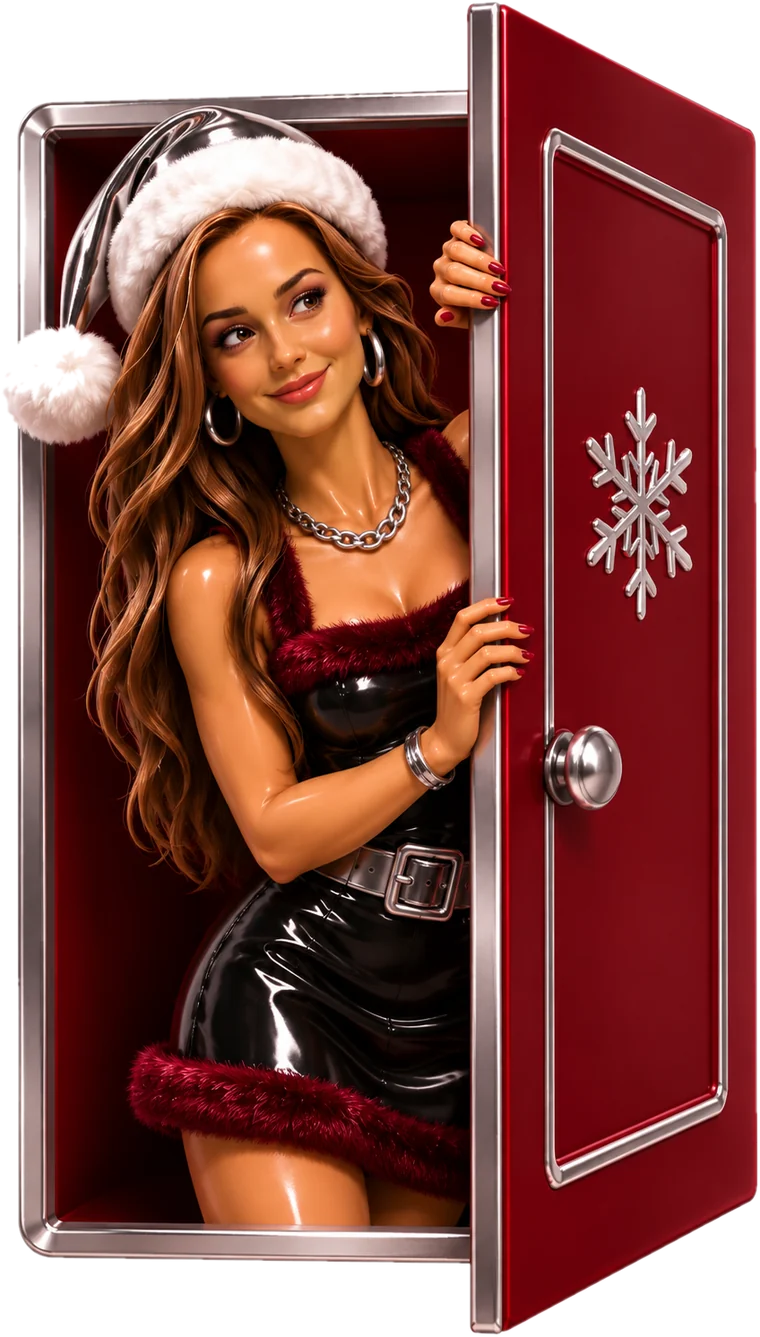
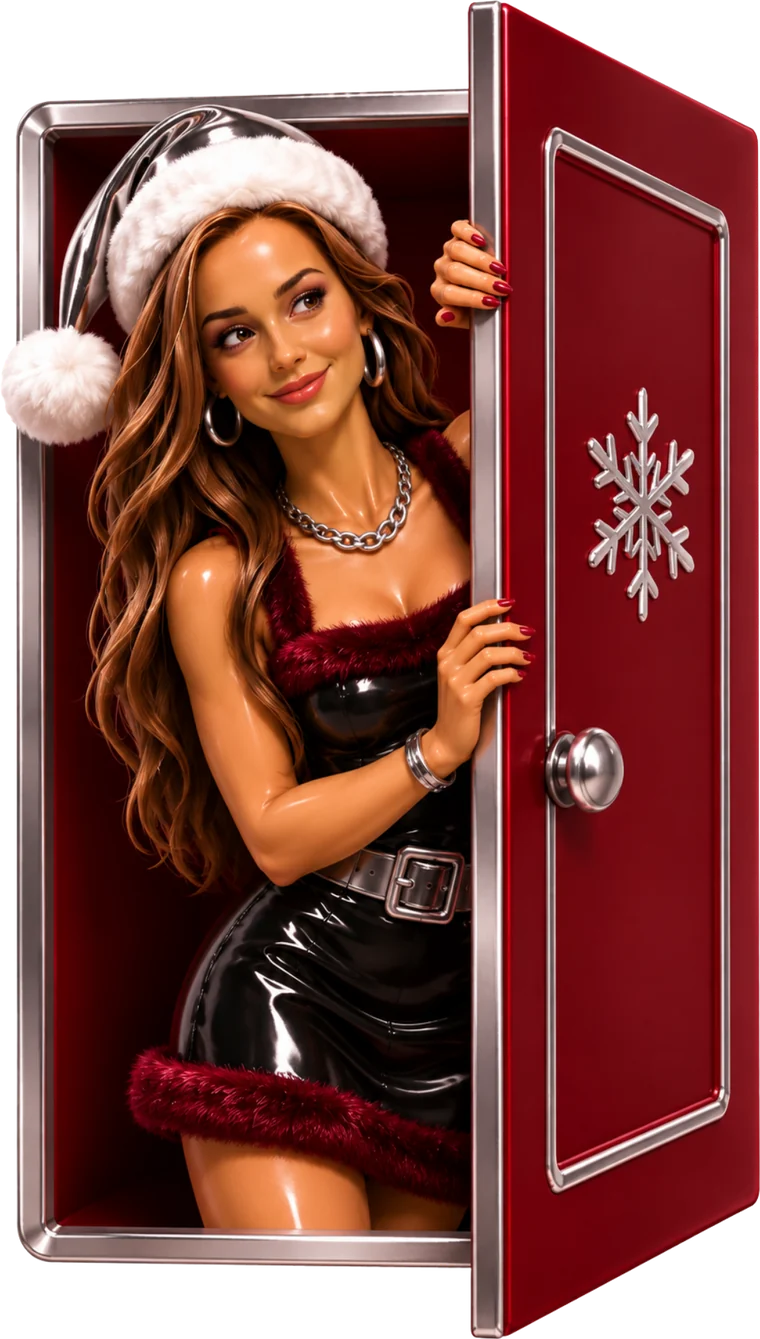
Add files via upload

diff --git a/app/advent/page.jsx b/app/advent/page.jsx
@@ -32,7 +32,7 @@ export default async function AdventPage() {
         </div>
 
         <div className="adv-art">
-          <img src="/img/advent/girl-door.webp" alt="" className="adv-girl" width="760" height="1337" />
+          <img src="/img/advent/girl-door.webp" alt="" className="adv-girl" width="760" height="1339" />
           <img src="/img/advent/hourglass.webp" alt="" className="adv-deco adv-hourglass" aria-hidden="true" />
           <img src="/img/advent/heart-ornament.webp" alt="" className="adv-deco adv-heart" aria-hidden="true" />
         </div>
